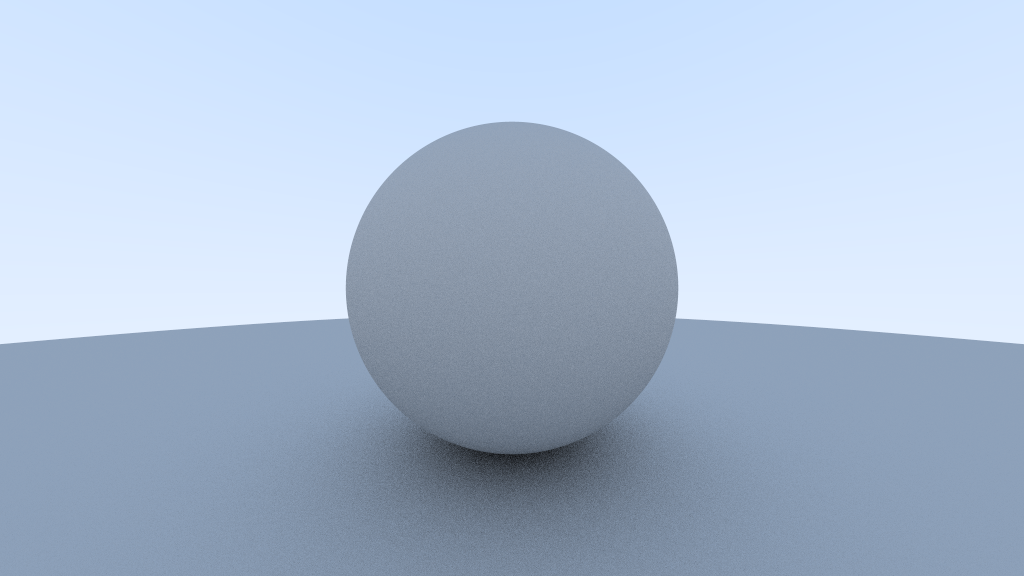
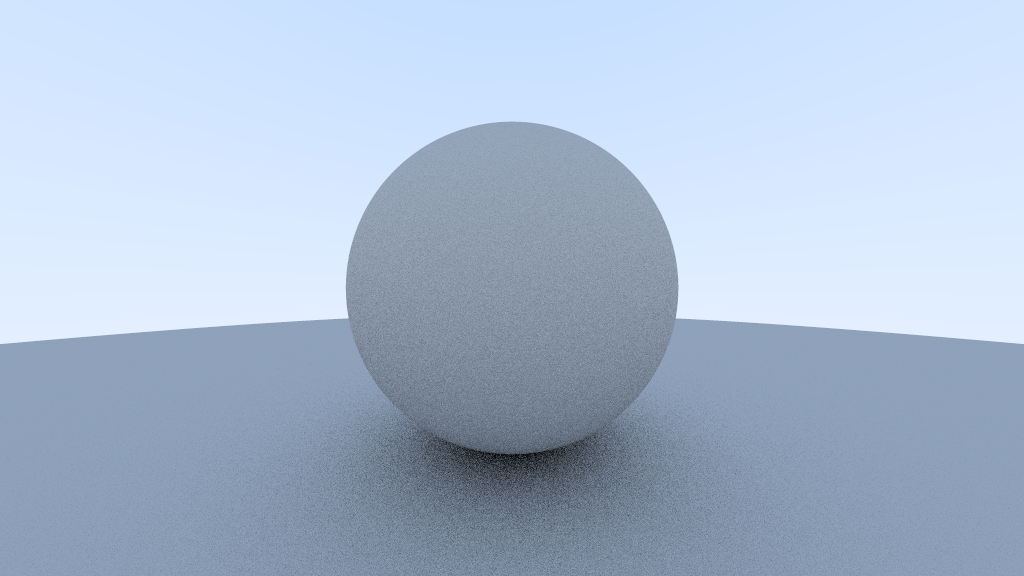
Limit number of ray bounces

Changed region(s): [[0.375, 0.75, 0.5938, 0.9062]]

diff --git a/src/render/renderer.rs b/src/render/renderer.rs
@@ -49,6 +49,7 @@ pub struct Renderer<'a>
     scene: Option<&'a Scene>,
 
     antialias_samples: u16,
+    bounce_limit: u16,
 
     debug: Option<RenderDebug>,
     stats: RenderStats
@@ -63,7 +64,8 @@ impl<'a> Renderer<'a>
             camera: None,
             scene: None,
 
-            antialias_samples: 1,
+            antialias_samples: 4,
+            bounce_limit: 8,
 
             debug: None,
             stats: RenderStats::new()
@@ -85,6 +87,12 @@ impl<'a> Renderer<'a>
     pub fn set_antialias_samples(mut self, count: u16) -> Self
     {
         self.antialias_samples = count;
+        self
+    }
+
+    pub fn set_bounce_limit(mut self, count: u16) -> Self
+    {
+        self.bounce_limit = count;
         self
     }
 
@@ -150,6 +158,11 @@ impl<'a> Renderer<'a>
 
     fn sample(&mut self, ray: Ray, bounce_index: u16) -> Color
     {
+        if bounce_index > self.bounce_limit
+        {
+            return Color::new(0.0, 0.0, 0.0, 1.0);
+        }
+
         self.stats.samples += 1;
         self.stats.max_bounces = std::cmp::max(self.stats.max_bounces, bounce_index);
 

diff --git a/src/main.rs b/src/main.rs
@@ -23,6 +23,7 @@ fn main()
         .set_camera(&camera)
         .set_scene(&scene)
         .set_antialias_samples(8)
+        .set_bounce_limit(32)
         .render(&mut image)
         .print_stats();
 
